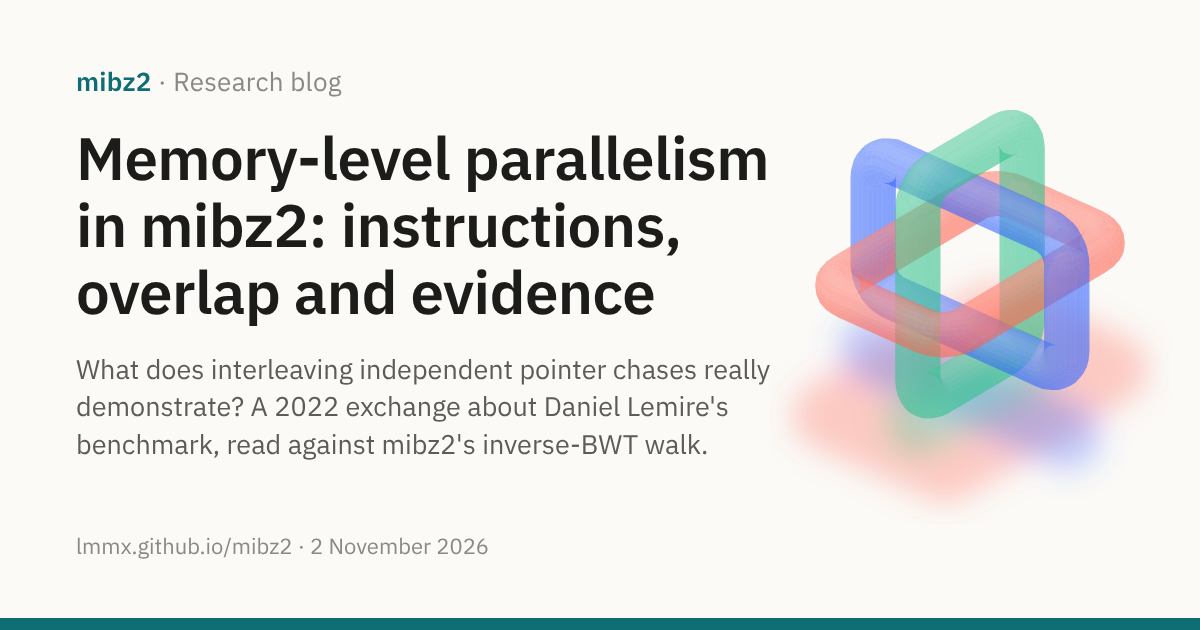
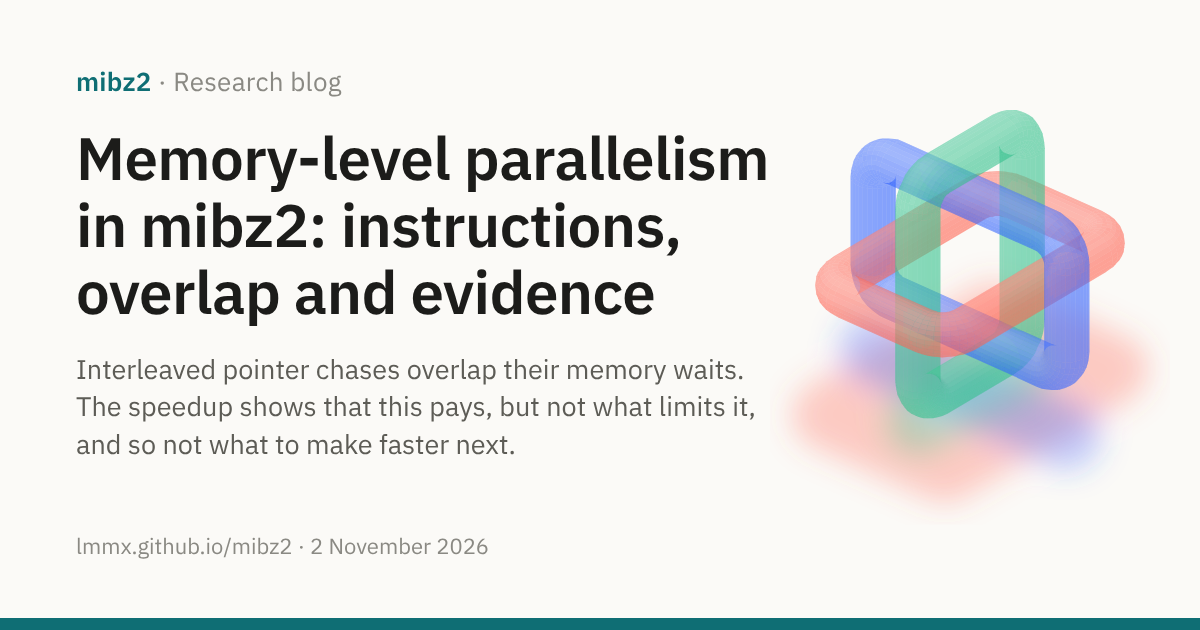
docs(blog): the MLP post states its conclusion up front and closes on the argument's chain
The post's conclusion arrived only in its last paragraph. It now comes straight after the
question it answers: ILP and MLP are one mechanism seen from two ends, and a speedup shows
that overlap pays but not what limits it, so not what to make faster next. A sentence
then lays out the route through the sections.

Along the way:
- the dek, card description and index card state that conclusion;
- section 2 names ILP and MLP as the opportunity and what the memory system makes of it;
- section 3 says how to read "about 25 loads at once";
- the model gains its rule (shrinking a term helps only while it is the largest), and
  section 4 says what a bottleneck is for optimisation;
- the close gives the argument as four numbered steps;
- "barely moved" becomes "hardly changed".

The social card is redrawn with the headless shell, which no longer clips its foot.

Changed region(s): [[0.0617, 0.6333, 0.6475, 0.6635], [0.0617, 0.573, 0.6475, 0.6032], [0.0617, 0.6937, 0.5858, 0.7238]]

diff --git a/docs/site/blog/2026-11-02-memory-level-parallelism.md b/docs/site/blog/2026-11-02-memory-level-parallelism.md
@@ -1,7 +1,7 @@
 ---
 title: "Memory-level parallelism in mibz2: instructions, overlap and evidence"
 image: assets/social/blog-2026-11-02-memory-level-parallelism.png
-description: "What does interleaving independent pointer chases really demonstrate? A 2022 exchange about Daniel Lemire's benchmark, read against mibz2's inverse-BWT walk."
+description: "Interleaved pointer chases overlap their memory waits. The speedup shows that this pays, but not what limits it, and so not what to make faster next."
 ---
 
 <div class="post-hero" markdown>
@@ -13,8 +13,9 @@ description: "What does interleaving independent pointer chases really demonstra
 
 # Memory-level parallelism in mibz2: instructions, overlap and evidence
 
-What does interleaving independent pointer chases really demonstrate? A 2022 exchange about
-Daniel Lemire's benchmark, read against mibz2's inverse-BWT walk.
+Interleaving pointer chases lets memory waits overlap. The speedup shows that this pays, but
+not what limits it: a 2022 exchange about Daniel Lemire's benchmark, read against mibz2's
+inverse-BWT walk.
 {: .post-dek }
 
 2 November 2026 · 15 min read · [Research synthesis](#5-the-bottleneck-isnt-an-instruction-count)
@@ -60,8 +61,19 @@ parallelism: Intel Ice Lake versus Amazon Graviton
 Lemire measures MLP with a benchmark much like our walk: a long pointer chase through a large
 array, then the same accesses shared among more and more independent chains. Ivica
 Bogosavljevic replied that the speedup comes from ILP as well; Lemire, that the waits are
-memory loads, not instructions. To see why they could both be right, start with why one chain
-is slow.
+memory loads, not instructions.
+
+They were both right, because ILP and MLP aren't rival explanations here: the independent
+instructions are what let the memory requests overlap, so the two names describe one
+mechanism from its two ends. The more useful question is what a speedup like our 8.6 can tell
+you about the part of the machine that limits it. It shows that overlapping the chains pays,
+but not what stops the gain from growing, and so not what to make faster next. We found that
+out on our own walk: removing a third of its instructions made it about 12% faster on its
+own, and left the decoder no faster with four workers.
+
+The sections below take that argument in order: why one chain stalls; how ILP and MLP fit
+together; what Lemire's curve can and can't measure; what happened when we cut the walk's
+instructions; and where the four-worker decoder's extra time goes instead.
 
 ## 1. Why a pointer chase stalls
 
@@ -203,12 +215,12 @@ Both of them are describing the same event from different ends. In the interleav
 3. their memory requests overlap;
 4. more steps complete per second.
 
-The first two steps are ILP and the last two are MLP, but they aren't two separate speedups
-to be added up. The independence of the instructions is what lets the memory requests
-overlap. Work on MLP treats them together for that reason: how far ahead the instruction
-window reaches, and how scheduling and branches behave, decide how much memory concurrency a
-core can actually achieve ([Chou, Fahs and Abraham, ISCA
-2004](https://pages.cs.wisc.edu/~markhill/restricted/isca04_mlp.pdf)).
+The first two steps are ILP and the last two are MLP: the opportunity, and what the memory
+system makes of it. They aren't two separate speedups to be added up. The independence of
+the instructions is what lets the memory requests overlap. Work on MLP treats them together
+for that reason: how far ahead the instruction window reaches, and how scheduling and
+branches behave, decide how much memory concurrency a core can actually achieve ([Chou, Fahs
+and Abraham, ISCA 2004](https://pages.cs.wisc.edu/~markhill/restricted/isca04_mlp.pdf)).
 
 Each side's wording is a little loose. Interleaving doesn't "break" any dependency, as Ivica
 put it: each chain keeps all of its own, and independent chains are added alongside. And
@@ -252,8 +264,10 @@ plateau like that can have many causes:
 - bandwidth runs out;
 - or noise lands near the 1% threshold.
 
-The curve alone can't tell these apart. As Travis Downs pointed out in an [earlier discussion
-of the same
+The curve alone can't tell these apart. So "about 25 loads at once" is safest read as a
+statement about the whole machine running this workload: around the 25th lane, another chain
+stopped buying more overlap. It needn't be the size of any one queue. As Travis Downs pointed
+out in an [earlier discussion of the same
 benchmark](https://lemire.me/blog/2019/01/01/memory-level-parallelism-intel-skylake-versus-intel-cannonlake/),
 every queue between the core and DRAM affects the plateau, and what matters is not only how
 many entries a queue has but how long each request holds one. Changing the page size moved the
@@ -338,7 +352,8 @@ $$
 Here $L/K$ is the memory latency shared among $K$ independent chains, $u/P$ the instruction
 work per step over the rate the core can execute it, and $b/B$ the bytes per step over the
 available bandwidth. It's optimistic and leaves a great deal out, but it captures the turn
-in the story. With one chain, $L/K$ dominates and trimming instructions barely helps. Add
+in the story, because shrinking one term helps only while that term is the largest. With one
+chain, $L/K$ dominates and trimming instructions barely helps. Add
 enough chains and $L/K$ falls until the instruction work, or the traffic, takes over. At that
 point fewer instructions should mean a faster walk: they shorten the work per step, they free
 load and address-generation slots, and they let the instruction window reach more loads.
@@ -376,6 +391,10 @@ address ports, comes from a static model, not a measurement. What the pair does 
 point of Ivica's objection. Cutting instructions can make a loop faster in isolation and make
 no difference to the program it lives in.
 
+For optimisation, a bottleneck is the resource whose relief improves the figure you care
+about. The walk's extra instructions were real work, but removing them didn't improve
+four-worker throughput, so for that figure they weren't the bottleneck.
+
 ## 5. The bottleneck isn't an instruction count
 
 If not instructions, then what? Our earlier attribution of the whole decoder
@@ -407,7 +426,7 @@ experiments designed to test it.
 Hardware counters are the obvious way to find out, but they need the same care as Lemire's
 curve. Intel defines an "MLP" metric as the number of pending L1 demand misses summed over
 cycles, divided by the number of cycles in which any such miss was pending. Between one worker
-and four, that figure barely moved, staying near 2.18. That sounds like nothing changed. But the share of
+and four, that figure hardly changed, staying near 2.18. That sounds like nothing changed. But the share of
 cycles with a miss pending rose from about 12% to about 30%, so averaged over *all* cycles the
 occupancy rose from roughly $2.18 \times 0.12 \approx 0.26$ to $2.18 \times 0.30 \approx
 0.65$. The metric was answering a narrower question than its name suggests.
@@ -425,14 +444,18 @@ and the measurements that would separate the remaining explanations.
 
 ### Exposing work isn't the same as completing it
 
-ILP describes the freedom a program gives the processor: independent instructions it could
-run. MLP describes what the hardware manages to do with that freedom in the memory system:
-requests that actually overlap. Lemire's benchmark shows that turning the first into the
-second pays, and Ivica was right that the speedup alone can't tell you which resource it ran
-into. mibz2's walk shows the same thing from the other side. Removing a third of its
-instructions sped up the walk on its own and left the four-worker decoder where it was. And
-the four-worker decoder's extra cost was never in its instruction count: it retires the same
-instructions as one worker, and takes longer to complete them.
+Put together, the argument runs:
+
+1. A dependent pointer chase waits on memory at every step, because each load's address is
+   the value the previous load returned.
+2. Independent chains give the processor loads it can issue together (ILP), and their
+   requests overlap in the memory system (MLP). Throughput rises though no load gets faster.
+3. The speedup, and the lane count where it levels off, show that the overlap pays. They
+   don't show which resource stops it, because many different limits produce the same curve.
+4. So a cost that looks large isn't necessarily the one to cut. Removing a third of mibz2's
+   walk instructions made the walk faster on its own and left the four-worker decoder where
+   it was. Four workers retire the same instructions per byte as one, and take longer to
+   complete them.
 
 So the next gain won't come from counting instructions, or from counting requests in flight.
 It will come from finding which resource the traversal is actually waiting on when four

diff --git a/docs/site/blog/index.md b/docs/site/blog/index.md
@@ -8,7 +8,7 @@ What mibz2's experiments are finding, and where they go next. The evidence behin
 post is in the [journals](../background/journals.md) and the pull requests they link.
 
 <div class="post-list">
-<a class="post-card" href="2026-11-02-memory-level-parallelism.md"><img src="../assets/social/blog-2026-11-02-memory-level-parallelism.png" alt="" loading="lazy"><span class="post-card-text"><span class="post-card-date">2 November 2026 · Research synthesis</span><span class="post-card-title">Memory-level parallelism in mibz2: instructions, overlap and evidence</span><span class="post-card-dek">What does interleaving independent pointer chases really demonstrate? A 2022 exchange about Daniel Lemire's benchmark, read against mibz2's inverse-BWT walk.</span></span></a>
+<a class="post-card" href="2026-11-02-memory-level-parallelism.md"><img src="../assets/social/blog-2026-11-02-memory-level-parallelism.png" alt="" loading="lazy"><span class="post-card-text"><span class="post-card-date">2 November 2026 · Research synthesis</span><span class="post-card-title">Memory-level parallelism in mibz2: instructions, overlap and evidence</span><span class="post-card-dek">Interleaving pointer chases lets memory waits overlap. The speedup shows that this pays, but not what limits it: a 2022 exchange about Daniel Lemire's benchmark, read against mibz2's inverse-BWT walk.</span></span></a>
 <a class="post-card" href="2026-11-01-inverse-bwt-memory-interference.md"><img src="../assets/social/blog-2026-11-01-inverse-bwt-memory-interference.png" alt="" loading="lazy"><span class="post-card-text"><span class="post-card-date">1 November 2026 · Research in progress</span><span class="post-card-title">Investigating inverse-BWT memory interference in mibz2</span><span class="post-card-dek">Four workers finish decompression sooner, but together spend 32% more processor time per byte. We're testing whether competition for shared memory is responsible.</span></span></a>
 <a class="post-card" href="2026-11-01-block-dispatch.md"><img src="../assets/social/blog-2026-11-01-block-dispatch.png" alt="" loading="lazy"><span class="post-card-text"><span class="post-card-date">1 November 2026 · Investigation in progress</span><span class="post-card-title">Block dispatch in mibz2: mutexes, futexes and the scheduler</span><span class="post-card-dek">How mibz2's parallel decoder hands blocks to its workers, why some take up to a millisecond to be picked up, and how to tell lock contention from scheduling delay.</span></span></a>
 <a class="post-card" href="2026-10-31-room-walk-overlap.md"><img src="../assets/social/blog-2026-10-31-room-walk-overlap.png" alt="" loading="lazy"><span class="post-card-text"><span class="post-card-date">31 October 2026 · Open question</span><span class="post-card-title">32 lanes, 8.6 chains: where the inverse BWT walk spends its cycles</span><span class="post-card-dek">The decoder's 32-lane walk runs 8.6 times faster than one chain. That figure may not mean what it seems: the walk may already hide memory latency, and spend too many instructions on each byte.</span></span></a>
